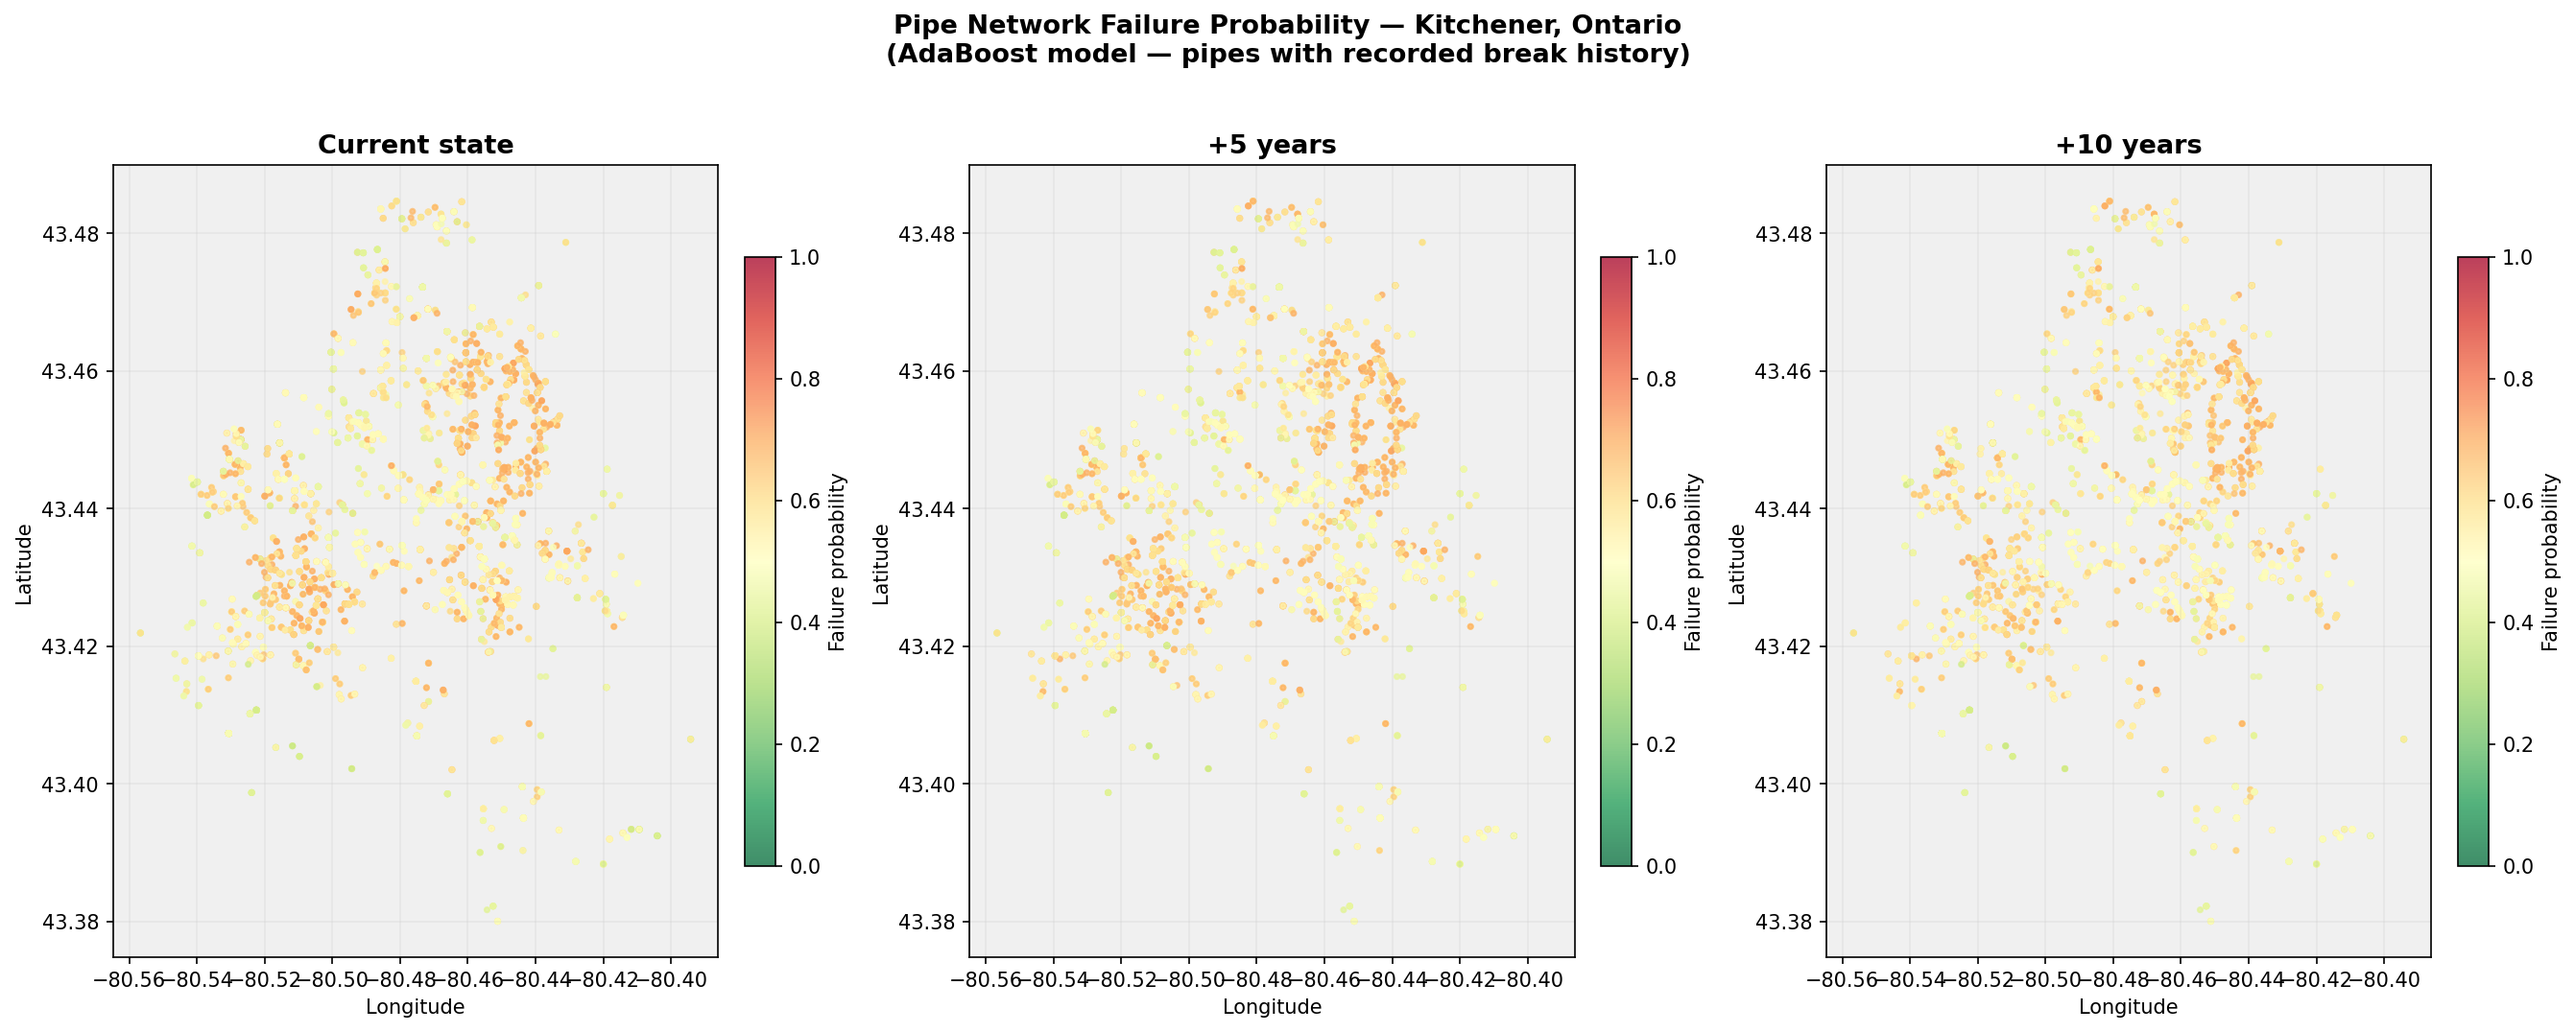
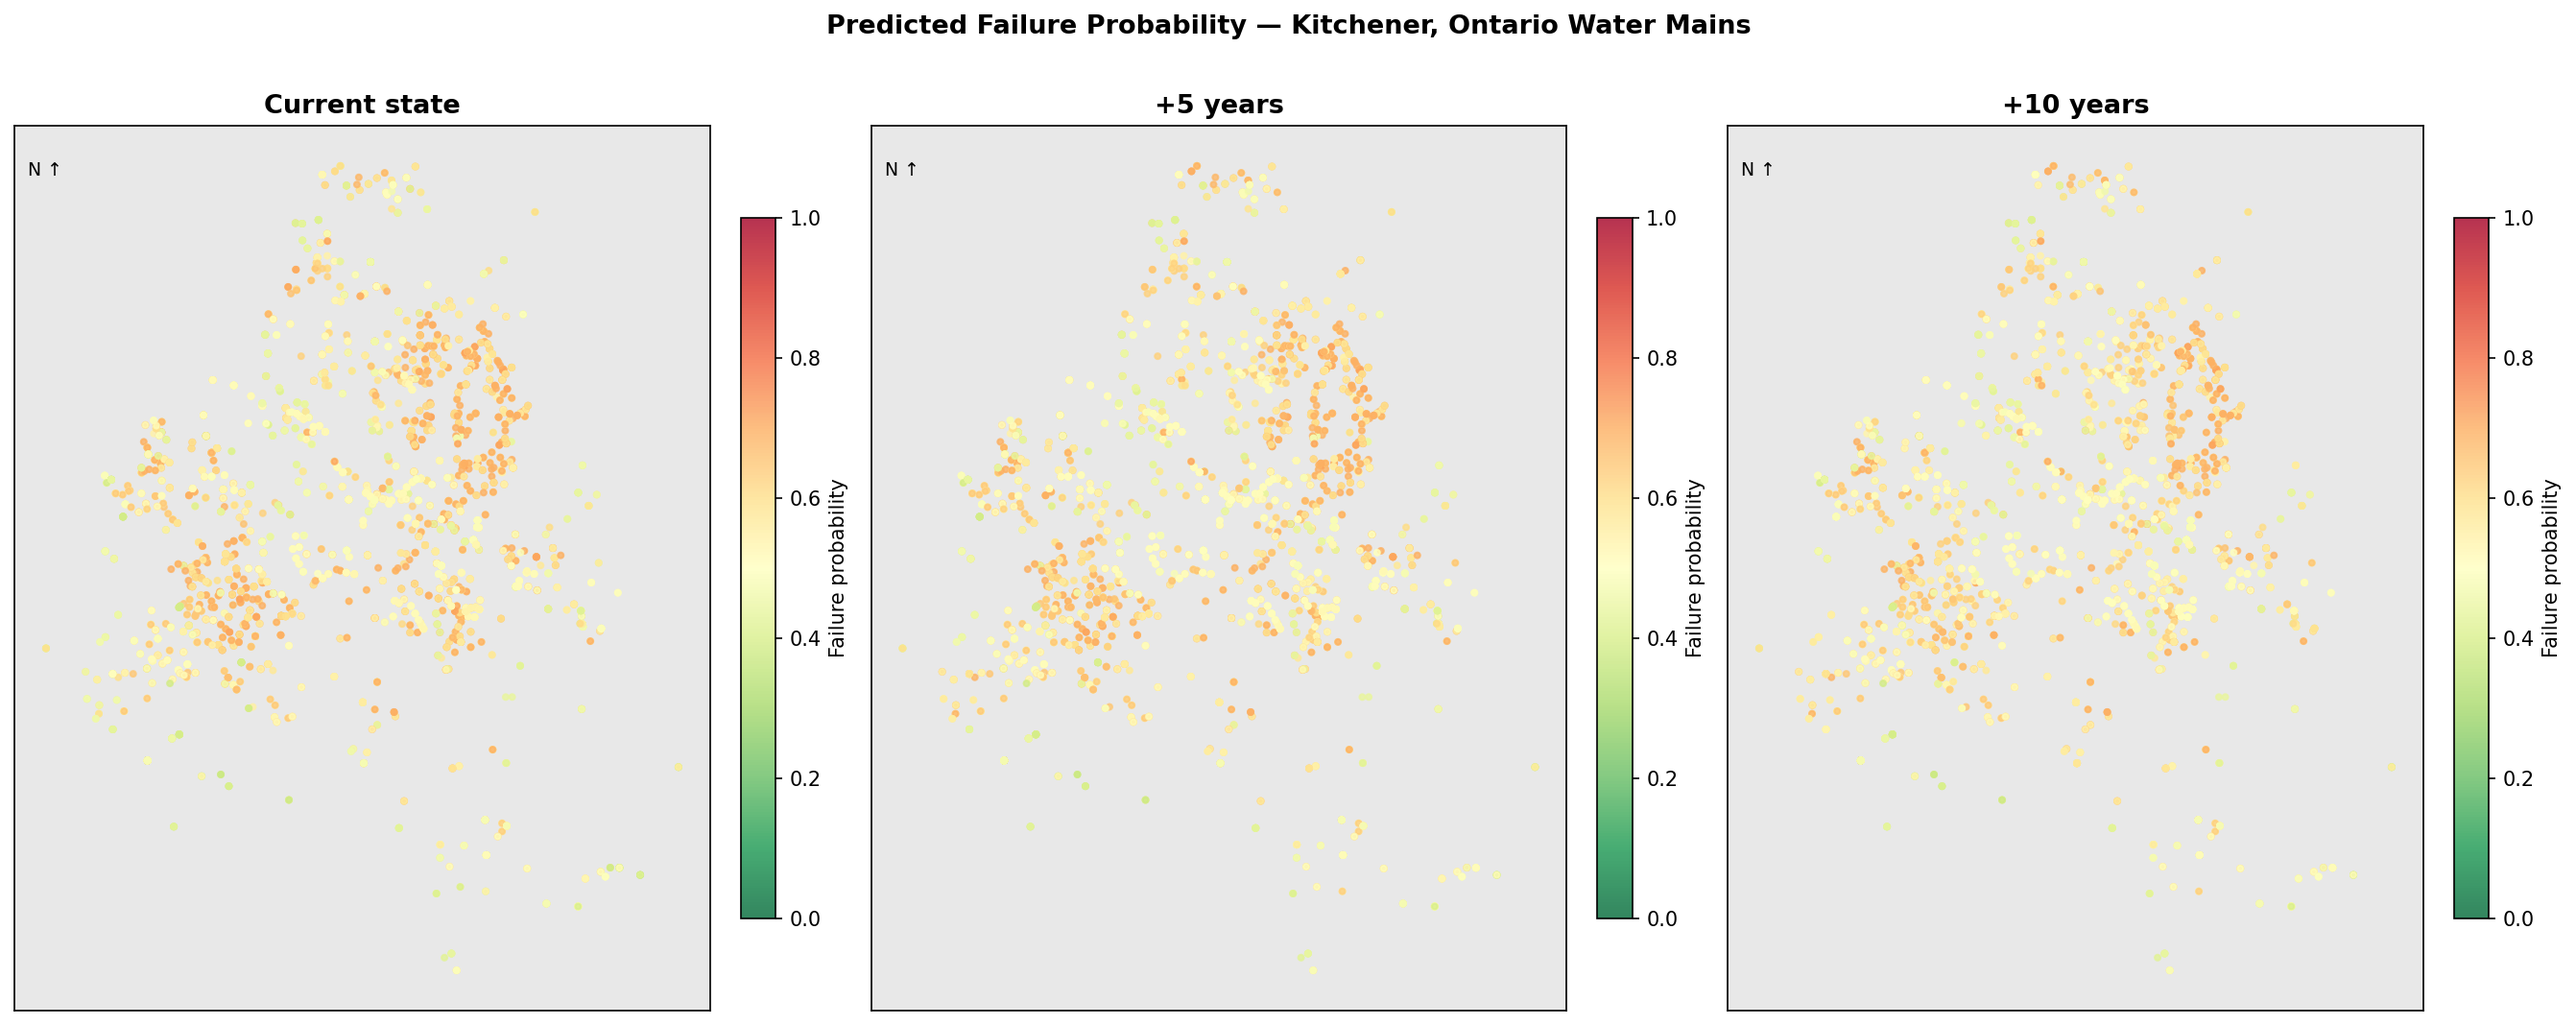
Fix figures, add full narrative to README with problem, captions, conclusion

diff --git a/analysis.py b/analysis.py
@@ -332,26 +332,45 @@ def aggregate_importances(importances, feature_names):
                 break
     return agg
 
-fig, ax = plt.subplots(figsize=(12, 6))
-x      = np.arange(len(base_features))
-width  = 0.2
-offset = [-1.5, -0.5, 0.5, 1.5]
+# Plot DT/RF/AdaBoost together; RUSBoost separately since it concentrates
+# entirely on condition_score and would crush the scale of the others
+fig, axes = plt.subplots(1, 2, figsize=(16, 6),
+                         gridspec_kw={"width_ratios": [3, 1]})
+fig.suptitle("Feature Importance by Classifier", fontsize=13, fontweight="bold")
 
-for i, (name, clf) in enumerate(trained.items()):
+main_clfs = ["Decision Tree", "Random Forest", "AdaBoost"]
+x      = np.arange(len(base_features))
+width  = 0.25
+offset = [-1, 0, 1]
+
+for i, name in enumerate(main_clfs):
+    clf = trained[name]
     imp = clf.feature_importances_
     agg = aggregate_importances(imp, FEATURE_NAMES)
     if i == 0:
         sorted_keys = sorted(agg, key=lambda k: agg[k], reverse=True)
     vals = [agg[k] for k in sorted_keys]
-    ax.bar(x + offset[i] * width, vals, width,
-           label=name, color=COLORS[name], alpha=0.85, edgecolor="white")
+    axes[0].bar(x + offset[i] * width, vals, width,
+                label=name, color=COLORS[name], alpha=0.85, edgecolor="white")
 
-ax.set_xticks(x)
-ax.set_xticklabels(sorted_keys, rotation=45, ha="right", fontsize=10)
-ax.set_ylabel("Predictor Importance", fontsize=12)
-ax.set_title("Feature Importance by Classifier", fontsize=13, fontweight="bold")
-ax.legend(fontsize=10)
-ax.grid(axis="y", alpha=0.3)
+axes[0].set_xticks(x)
+axes[0].set_xticklabels(sorted_keys, rotation=45, ha="right", fontsize=10)
+axes[0].set_ylabel("Predictor Importance", fontsize=12)
+axes[0].set_title("Decision Tree, Random Forest, AdaBoost", fontsize=11)
+axes[0].legend(fontsize=10)
+axes[0].grid(axis="y", alpha=0.3)
+
+# RUSBoost panel — shows it leans almost entirely on condition_score
+rus_agg = aggregate_importances(trained["RUSBoost"].feature_importances_, FEATURE_NAMES)
+rus_vals = [rus_agg[k] for k in sorted_keys]
+axes[1].bar(x, rus_vals, 0.6, color=COLORS["RUSBoost"], alpha=0.85, edgecolor="white")
+axes[1].set_xticks(x)
+axes[1].set_xticklabels(sorted_keys, rotation=45, ha="right", fontsize=10)
+axes[1].set_ylabel("Predictor Importance", fontsize=12)
+axes[1].set_title("RUSBoost", fontsize=11)
+axes[1].grid(axis="y", alpha=0.3)
+axes[1].set_ylim(0, 1.05)
+
 plt.tight_layout()
 plt.savefig(FIGURES_PATH / "04_predictor_importance.png", dpi=150, bbox_inches="tight")
 plt.close()
@@ -376,9 +395,8 @@ df_map_enc = df_map_enc.reindex(columns=FEATURE_NAMES, fill_value=0).astype(floa
 cmap = plt.cm.RdYlGn_r
 
 fig, axes = plt.subplots(1, 3, figsize=(18, 7))
-fig.suptitle("Pipe Network Failure Probability — Kitchener, Ontario\n"
-             "(AdaBoost model — pipes with recorded break history)",
-             fontsize=13, fontweight="bold", y=1.02)
+fig.suptitle("Predicted Failure Probability — Kitchener, Ontario Water Mains",
+             fontsize=13, fontweight="bold", y=1.01)
 
 for ax, delta_yr, title in zip(axes, [0, 5, 10],
                                 ["Current state", "+5 years", "+10 years"]):
@@ -389,15 +407,17 @@ for ax, delta_yr, title in zip(axes, [0, 5, 10],
 
     sc = ax.scatter(
         df_map["longitude"], df_map["latitude"],
-        c=proba, cmap=cmap, s=6, alpha=0.75,
+        c=proba, cmap=cmap, s=8, alpha=0.8,
         vmin=0, vmax=1
     )
     ax.set_title(title, fontsize=13, fontweight="bold")
-    ax.set_xlabel("Longitude"); ax.set_ylabel("Latitude")
-    ax.set_facecolor("#f0f0f0")
+    ax.set_facecolor("#e8e8e8")
+    ax.set_xticks([]); ax.set_yticks([])
+    ax.annotate("N ↑", xy=(0.02, 0.96), xycoords="axes fraction",
+                fontsize=9, va="top")
     plt.colorbar(sc, ax=ax, label="Failure probability",
                  fraction=0.046, pad=0.04)
-    ax.grid(alpha=0.15)
+    ax.grid(False)
 
 plt.tight_layout()
 plt.savefig(FIGURES_PATH / "05_network_failure_map.png", dpi=150, bbox_inches="tight")

diff --git a/README.md b/README.md
@@ -4,7 +4,39 @@
 ![scikit-learn](https://img.shields.io/badge/scikit--learn-ML-orange?logo=scikit-learn)
 ![Status](https://img.shields.io/badge/Status-Complete-brightgreen)
 
-ML project predicting water main failures using real municipal data from the City of Kitchener, Ontario (open data portal). Four classifiers benchmarked on 15,768 pipes with recorded break history going back to 1985.
+---
+
+## The Problem
+
+Water utilities manage thousands of kilometres of buried pipes. When a pipe fails it causes road closures, property damage, and service outages — and emergency repairs cost significantly more than planned ones. The challenge is that most pipes look fine from the surface: they fail without warning.
+
+This project builds a machine learning classifier to identify **which pipes are most likely to fail**, so utilities can prioritise inspections and schedule proactive replacements before a failure happens.
+
+---
+
+## Dataset
+
+Real open data from the **City of Kitchener, Ontario** (GIS open data portal):
+
+- **Water_Mains.csv** — 15,903 pipes covering the city's full distribution network, including material, diameter, length, installation date, condition score, and pressure zone
+- **Water_Main_Breaks.csv** — 2,766 recorded break incidents from 1985 to 2023
+
+Each pipe is labelled as **failed** (has had at least one recorded break) or **healthy** (no recorded breaks). This gives a dataset of 15,768 pipes with a 21.6% failure rate — higher than typical studies because Kitchener has a large proportion of cast iron and ductile iron mains installed in the 1950s–70s.
+
+Features used for prediction: **age, diameter, length, material, condition score, criticality rating, pressure zone.**
+
+---
+
+## Approach
+
+Four classifiers are trained and compared:
+
+- **Decision Tree** — single tree, used as a baseline
+- **Random Forest** — ensemble of 100 trees (bagging)
+- **AdaBoost** — boosting with adaptive sample weighting
+- **RUSBoost** — AdaBoost with random undersampling at each iteration, specifically designed for imbalanced datasets
+
+The dataset has a ~4:1 healthy-to-failed ratio. To stop classifiers from just predicting everything as healthy, stratified undersampling is applied to the training set for DT, RF, and AdaBoost. RUSBoost handles this internally. Train/test split is 50/50.
 
 ---
 
@@ -17,42 +49,61 @@ ML project predicting water main failures using real municipal data from the Cit
 | Decision Tree | 0.747 | 0.786 | 73.1% | 24.9% |
 | RUSBoost | 0.791 | 0.677 | 49.7% | 12.8% |
 
-Random Forest had the best AUC (0.848) and TPR — it catches the most at-risk pipes. RUSBoost had the best accuracy but lower TPR, which matters less here since missing a real failure is more costly than a false alarm.
+**Random Forest is the best overall classifier** with AUC 0.848 — it correctly identifies 75% of pipes that will fail (TPR) while raising false alarms on 23% of healthy pipes (FPR). In this domain, missing a real failure (false negative) is more costly than a false alarm, so TPR matters more than raw accuracy.
+
+RUSBoost had the highest accuracy but the lowest TPR — it plays it safe by predicting fewer failures, which reduces false alarms but also means more real failures get missed.
 
 ---
 
-## Visualisations
+## Figures
 
-### Data Distributions
+### 1. Data Distributions
 ![Data Distributions](figures/01_data_distributions.png)
 
-### Confusion Matrices
-![Confusion Matrices](figures/02_confusion_matrices.png)
-
-### ROC Curves
-![ROC Curves](figures/03_roc_curves.png)
-
-### Feature Importance
-![Feature Importance](figures/04_predictor_importance.png)
-
-### Network Failure Probability Map — Kitchener, Ontario (Present / +5yr / +10yr)
-![Failure Maps](figures/05_network_failure_map.png)
-
-### Failure Probability Histograms
-![Histograms](figures/06_failure_probability_histograms.png)
+Overview of the dataset. The age distribution peaks around 10–25 years reflecting Kitchener's recent PVC rollout, with a secondary hump around 50–60 years from the older cast iron and ductile iron mains. The break count per pipe drops off exponentially — most pipes have 0–2 breaks, but some old cast iron mains have 8+. The condition score overlay (bottom right) shows that failed and healthy pipes both score highly on this metric, meaning condition score alone isn't a strong predictor but is still informative alongside other features.
 
 ---
 
-## Dataset
+### 2. Confusion Matrices
+![Confusion Matrices](figures/02_confusion_matrices.png)
 
-Real open data from the City of Kitchener GIS portal:
-- **Water_Mains.csv** — 15,903 pipes with material, diameter, length, install date, condition score
-- **Water_Main_Breaks.csv** — 2,766 recorded break incidents (1985–2023)
-- **Failure label** — binary: pipe has had at least one recorded break
+For each classifier, shows what percentage of actual failures were correctly caught (top-right cell = TPR) and what percentage of healthy pipes were wrongly flagged (bottom-right cell = FPR). A perfect classifier would have 100% top-right and 0% bottom-right. Random Forest and AdaBoost strike the best balance — they catch ~73–75% of real failures while keeping false alarms around 23–24%.
 
-Failure rate: 21.6% — higher than typical studies because Kitchener has a significant proportion of older cast iron and ductile iron mains installed in the 1950s–70s.
+---
 
-Features used: age, diameter, length, material, condition score, criticality, pressure zone.
+### 3. ROC Curves
+![ROC Curves](figures/03_roc_curves.png)
+
+The ROC curve shows the trade-off between catching failures (TPR) and generating false alarms (FPR) across all decision thresholds. A curve hugging the top-left corner is better. AUC (area under the curve) summarises this — higher is better, with 1.0 being perfect and 0.5 being no better than random. Random Forest (AUC 0.848) clearly outperforms the others, followed by AdaBoost (0.821). RUSBoost's lower AUC (0.677) reflects that its conservative predictions, while accurate, miss too many real failures.
+
+---
+
+### 4. Feature Importance
+![Feature Importance](figures/04_predictor_importance.png)
+
+Shows which features each classifier relies on most. For DT, RF, and AdaBoost (left panel): **age and pipe length** are consistently the most important features — older and longer pipes have accumulated more wear and are harder to access for maintenance. Condition score matters more for AdaBoost. The RUSBoost panel (right) is shown separately because it converges almost entirely on condition score — this is a characteristic of the RUS undersampling approach, where the balanced subsets at each iteration make condition score the single most discriminative split.
+
+---
+
+### 5. Network Failure Probability Map
+![Failure Maps](figures/05_network_failure_map.png)
+
+The AdaBoost model is applied to every pipe with a GPS coordinate (those appearing in the break records) and each pipe is coloured by its predicted failure probability — green = low risk, red = high risk. The three panels show predictions for the current pipe ages, and if every pipe were 5 or 10 years older. The city's older central areas and legacy cast iron zones show higher risk (more orange/red), while newer PVC infrastructure in outer areas stays greener. The shift towards higher probabilities over time is visible as the colour distribution warms.
+
+---
+
+### 6. Failure Probability Histograms
+![Histograms](figures/06_failure_probability_histograms.png)
+
+Across all 15,768 pipes in the network, this shows how predicted failure probabilities are distributed — now and in 10 years. The distribution shifts rightward over time as pipes age, meaning the model predicts a gradual increase in overall network risk. This kind of output is directly usable for rehabilitation planning: a utility could use the 10-year histogram to estimate how many pipes will cross a risk threshold and budget accordingly.
+
+---
+
+## Conclusion
+
+Random Forest gave the best results (AUC 0.848, TPR 75%) on this real dataset. The key predictors were **age and pipe length** — consistent with what you'd expect from infrastructure degradation. Older pipes in Kitchener's city centre are at highest risk, and the model predicts a measurable increase in network-wide failure probability over the next decade as those pipes continue to age.
+
+The approach is directly transferable to any water utility that maintains a GIS asset database with break history — no additional data collection required.
 
 ---
 
@@ -66,40 +117,9 @@ python prepare_real_data.py   # builds data/pipe_network.csv from raw files
 jupyter notebook pipe_failure_modelling.ipynb
 ```
 
-or run as a script:
+or as a script:
 ```bash
 python analysis.py
-```
-
----
-
-## Methods
-
-**Classifiers:**
-- Decision Tree (CART, Gini impurity) — baseline
-- Random Forest — 100 trees, best overall AUC
-- AdaBoost — adaptive sample weighting
-- RUSBoost — AdaBoost + random undersampling per iteration for imbalanced data
-
-**Class imbalance:** ~78:22 healthy-to-failed ratio. Used stratified undersampling (PSRS) for DT/RF/AdaBoost; RUS embedded per iteration in RUSBoost.
-
-**Evaluation:** confusion matrix, ROC/AUC, feature importance.
-
-**Network map:** AdaBoost model applied to all pipes with GPS coordinates — shows real Kitchener pipe locations coloured by predicted failure probability for current state and 5/10-year projections.
-
----
-
-## Repo structure
-
-```
-├── pipe_failure_modelling.ipynb   <- main notebook
-├── analysis.py                    <- script version
-├── prepare_real_data.py           <- builds dataset from raw files
-├── data/
-│   ├── pipe_network.csv           <- processed dataset
-│   └── raw/                       <- City of Kitchener open data
-├── figures/
-└── requirements.txt
 ```
 
 ---
